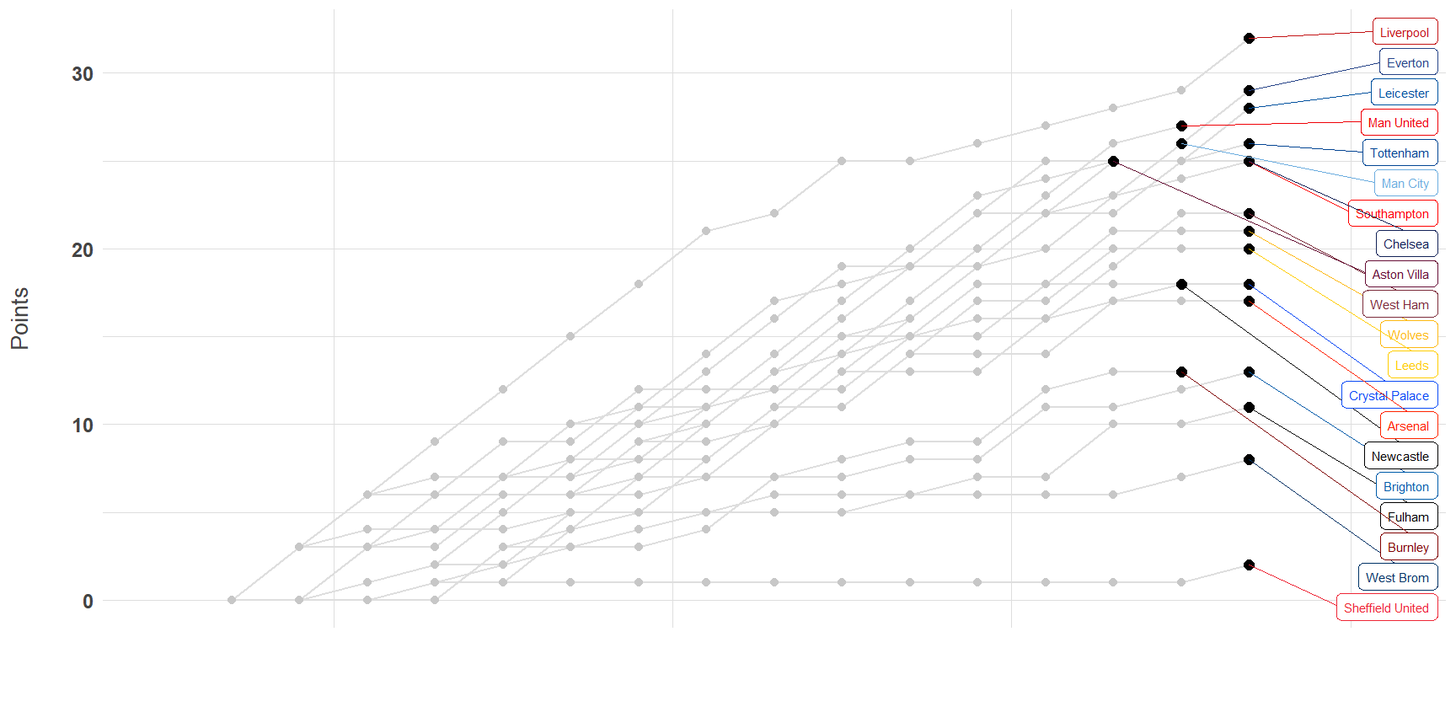
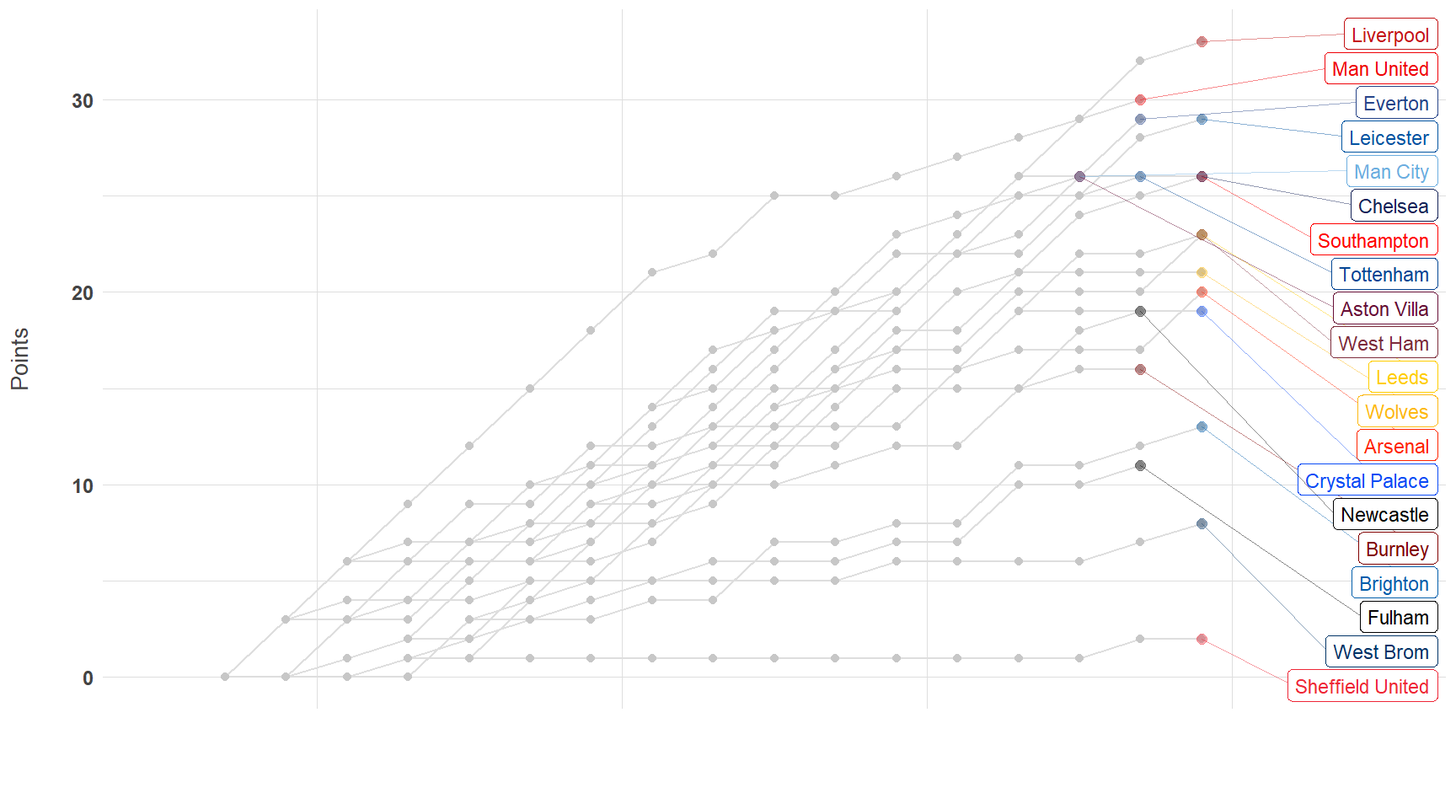
week updates

diff --git a/content/EPL.html b/content/EPL.html
@@ -7,8 +7,6 @@ categories: ['R',', ','soccer',', ','EPL']
 imgtype: "png"
 ---
 
-<link href="/rmarkdown-libs/anchor-sections/anchor-sections.css" rel="stylesheet" />
-<script src="/rmarkdown-libs/anchor-sections/anchor-sections.js"></script>
 <script src="/rmarkdown-libs/htmlwidgets/htmlwidgets.js"></script>
 <script src="/rmarkdown-libs/echarts4r/echarts-en.min.js"></script>
 <script src="/rmarkdown-libs/echarts4r/ecStat.min.js"></script>
@@ -88,17 +86,17 @@ Liverpool
 </td>
 <td style="text-align:center;">
 <div style="background-color: #2a2a2a; color: white; font-weight: bold; border-radius: 5px">
-32
+33
 </div>
 </td>
 <td style="text-align:center;">
-<span style="font-weight: 200; color: #6a6a6a; padding: 3px 8px 3px 8px">15</span>
+<span style="font-weight: 200; color: #6a6a6a; padding: 3px 8px 3px 8px">16</span>
 </td>
 <td style="text-align:center;">
 <span style="font-weight: 200; color: #6a6a6a; padding: 3px 8px 3px 8px">9</span>
 </td>
 <td style="text-align:center;">
-<span style="font-weight: 200; color: #6a6a6a; padding: 3px 8px 3px 8px">5</span>
+<span style="font-weight: 200; color: #6a6a6a; padding: 3px 8px 3px 8px">6</span>
 </td>
 <td style="text-align:center;">
 <span style="font-weight: 200; color: #6a6a6a; padding: 3px 8px 3px 8px">1</span>
@@ -113,9 +111,6 @@ Liverpool
 <span style="font-weight: 700; color: #2c7e55">17</span>
 </td>
 <td style="text-align:left;">
-<span style="display: float; color: white; font-weight: light; font-size: 10px; font-family: IBM Plex Mono; padding: 7px 10px 7px 10px; background-color: #2c7e55">W</span>
-</td>
-<td style="text-align:center;">
 <span style="display: float; color: white; font-weight: light; font-size: 10px; font-family: IBM Plex Mono; padding: 7px 10px 7px 10px; background-color: #ffc966">D</span>
 </td>
 <td style="text-align:center;">
@@ -123,6 +118,9 @@ Liverpool
 </td>
 <td style="text-align:center;">
 <span style="display: float; color: white; font-weight: light; font-size: 10px; font-family: IBM Plex Mono; padding: 7px 10px 7px 10px; background-color: #2c7e55">W</span>
+</td>
+<td style="text-align:center;">
+<span style="display: float; color: white; font-weight: light; font-size: 10px; font-family: IBM Plex Mono; padding: 7px 10px 7px 10px; background-color: #ffc966">D</span>
 </td>
 <td style="text-align:center;">
 <span style="display: float; color: white; font-weight: light; font-size: 10px; font-family: IBM Plex Mono; padding: 7px 10px 7px 10px; background-color: #ffc966">D</span>
@@ -742,6 +740,57 @@ Arsenal
 </tr>
 <tr>
 <td style="text-align:center;">
+<img src="https://github.com/awhstin/Dataset-List/raw/master/img/new.png" height="30" width="30" style="display: inline; padding: 2px"/>
+</td>
+<td style="text-align:left;">
+<div style="font-family: IBM Plex Mono; font-size: 16px; font-weight: 700">
+Newcastle United
+</div>
+</td>
+<td style="text-align:center;">
+<div style="background-color: dark gray; color: black; font-weight: bold; border-radius: 5px">
+19
+</div>
+</td>
+<td style="text-align:center;">
+<span style="font-weight: 200; color: #6a6a6a; padding: 3px 8px 3px 8px">15</span>
+</td>
+<td style="text-align:center;">
+<span style="font-weight: 200; color: #6a6a6a; padding: 3px 8px 3px 8px">5</span>
+</td>
+<td style="text-align:center;">
+<span style="font-weight: 200; color: #6a6a6a; padding: 3px 8px 3px 8px">4</span>
+</td>
+<td style="text-align:center;">
+<span style="font-weight: 200; color: #6a6a6a; padding: 3px 8px 3px 8px">6</span>
+</td>
+<td style="text-align:center;">
+<span style="font-weight: 200; color: #6a6a6a; padding: 3px 8px 3px 8px">17</span>
+</td>
+<td style="text-align:center;">
+<span style="font-weight: 200; color: #6a6a6a; padding: 3px 8px 3px 8px">24</span>
+</td>
+<td style="text-align:center;">
+<span style="font-weight: 700; color: #7d5948">-7</span>
+</td>
+<td style="text-align:left;">
+<span style="display: float; color: white; font-weight: light; font-size: 10px; font-family: IBM Plex Mono; padding: 7px 10px 7px 10px; background-color: #2c7e55">W</span>
+</td>
+<td style="text-align:center;">
+<span style="display: float; color: white; font-weight: light; font-size: 10px; font-family: IBM Plex Mono; padding: 7px 10px 7px 10px; background-color: #B74040">L</span>
+</td>
+<td style="text-align:center;">
+<span style="display: float; color: white; font-weight: light; font-size: 10px; font-family: IBM Plex Mono; padding: 7px 10px 7px 10px; background-color: #ffc966">D</span>
+</td>
+<td style="text-align:center;">
+<span style="display: float; color: white; font-weight: light; font-size: 10px; font-family: IBM Plex Mono; padding: 7px 10px 7px 10px; background-color: #B74040">L</span>
+</td>
+<td style="text-align:center;">
+<span style="display: float; color: white; font-weight: light; font-size: 10px; font-family: IBM Plex Mono; padding: 7px 10px 7px 10px; background-color: #ffc966">D</span>
+</td>
+</tr>
+<tr>
+<td style="text-align:center;">
 <img src="https://github.com/awhstin/Dataset-List/raw/master/img/cry.png" height="30" width="30" style="display: inline; padding: 2px"/>
 </td>
 <td style="text-align:left;">
@@ -789,57 +838,6 @@ Crystal Palace
 </td>
 <td style="text-align:center;">
 <span style="display: float; color: white; font-weight: light; font-size: 10px; font-family: IBM Plex Mono; padding: 7px 10px 7px 10px; background-color: #ffc966">D</span>
-</td>
-</tr>
-<tr>
-<td style="text-align:center;">
-<img src="https://github.com/awhstin/Dataset-List/raw/master/img/new.png" height="30" width="30" style="display: inline; padding: 2px"/>
-</td>
-<td style="text-align:left;">
-<div style="font-family: IBM Plex Mono; font-size: 16px; font-weight: 700">
-Newcastle United
-</div>
-</td>
-<td style="text-align:center;">
-<div style="background-color: dark gray; color: black; font-weight: bold; border-radius: 5px">
-18
-</div>
-</td>
-<td style="text-align:center;">
-<span style="font-weight: 200; color: #6a6a6a; padding: 3px 8px 3px 8px">14</span>
-</td>
-<td style="text-align:center;">
-<span style="font-weight: 200; color: #6a6a6a; padding: 3px 8px 3px 8px">5</span>
-</td>
-<td style="text-align:center;">
-<span style="font-weight: 200; color: #6a6a6a; padding: 3px 8px 3px 8px">3</span>
-</td>
-<td style="text-align:center;">
-<span style="font-weight: 200; color: #6a6a6a; padding: 3px 8px 3px 8px">6</span>
-</td>
-<td style="text-align:center;">
-<span style="font-weight: 200; color: #6a6a6a; padding: 3px 8px 3px 8px">17</span>
-</td>
-<td style="text-align:center;">
-<span style="font-weight: 200; color: #6a6a6a; padding: 3px 8px 3px 8px">24</span>
-</td>
-<td style="text-align:center;">
-<span style="font-weight: 700; color: #7d5948">-7</span>
-</td>
-<td style="text-align:left;">
-<span style="display: float; color: white; font-weight: light; font-size: 10px; font-family: IBM Plex Mono; padding: 7px 10px 7px 10px; background-color: #2c7e55">W</span>
-</td>
-<td style="text-align:center;">
-<span style="display: float; color: white; font-weight: light; font-size: 10px; font-family: IBM Plex Mono; padding: 7px 10px 7px 10px; background-color: #2c7e55">W</span>
-</td>
-<td style="text-align:center;">
-<span style="display: float; color: white; font-weight: light; font-size: 10px; font-family: IBM Plex Mono; padding: 7px 10px 7px 10px; background-color: #B74040">L</span>
-</td>
-<td style="text-align:center;">
-<span style="display: float; color: white; font-weight: light; font-size: 10px; font-family: IBM Plex Mono; padding: 7px 10px 7px 10px; background-color: #ffc966">D</span>
-</td>
-<td style="text-align:center;">
-<span style="display: float; color: white; font-weight: light; font-size: 10px; font-family: IBM Plex Mono; padding: 7px 10px 7px 10px; background-color: #B74040">L</span>
 </td>
 </tr>
 <tr>
@@ -1124,7 +1122,7 @@ This section is reserved for other charts and tables investigating the Premier L
 </div>
 <p><br></p>
 <div id="htmlwidget-1" style="width:100%;height:500px;" class="echarts4r html-widget"></div>
-<script type="application/json" data-for="htmlwidget-1">{"x":{"theme":"custom","tl":false,"draw":true,"renderer":"canvas","events":[{"data":{"type":"highlight","seriesName":["2020"]}},{"data":{"type":"dataZoom","dataZoomIndex":0,"start":0,"end":50}}],"buttons":[],"opts":{"yAxis":[{"show":true}],"xAxis":[{"type":"value"}],"legend":{"data":["2015","2016","2017","2018","2019","2020"],"show":true,"type":"plain","right":0},"series":[{"data":[{"value":[1,22]},{"value":[2,56]},{"value":[3,84]},{"value":[4,114]},{"value":[5,133]},{"value":[6,155]},{"value":[7,189]},{"value":[8,236]},{"value":[9,263]},{"value":[10,274]},{"value":[11,297]},{"value":[12,326]},{"value":[13,356]},{"value":[14,396]},{"value":[15,421]},{"value":[16,452]},{"value":[17,497]},{"value":[18,532]},{"value":[19,562]},{"value":[20,586]},{"value":[21,609]},{"value":[22,631]},{"value":[23,655]},{"value":[24,678]},{"value":[25,719]},{"value":[26,751]},{"value":[27,783]},{"value":[28,807]},{"value":[29,838]},{"value":[30,854]},{"value":[31,884]},{"value":[32,914]},{"value":[33,934]},{"value":[34,956]},{"value":[35,984]},{"value":[36,1026]}],"yAxisIndex":0,"xAxisIndex":0,"name":"2015","type":"line","coordinateSystem":"cartesian2d","smooth":true},{"data":[{"value":[1,36]},{"value":[2,59]},{"value":[3,87]},{"value":[4,95]},{"value":[5,142]},{"value":[6,163]},{"value":[7,169]},{"value":[8,183]},{"value":[9,217]},{"value":[10,238]},{"value":[11,260]},{"value":[12,269]},{"value":[13,284]},{"value":[14,336]},{"value":[15,372]},{"value":[16,386]},{"value":[17,404]},{"value":[18,436]},{"value":[19,461]},{"value":[20,492]},{"value":[21,529]},{"value":[22,557]},{"value":[23,579]},{"value":[24,601]},{"value":[25,635]},{"value":[26,671]},{"value":[27,705]},{"value":[28,725]},{"value":[29,752]},{"value":[30,771]},{"value":[31,799]},{"value":[32,835]},{"value":[33,859]},{"value":[34,890]},{"value":[35,927]},{"value":[36,984]},{"value":[37,1007]},{"value":[38,1038]},{"value":[39,1064]}],"yAxisIndex":0,"xAxisIndex":0,"name":"2016","type":"line","coordinateSystem":"cartesian2d","smooth":true},{"data":[{"value":[1,31]},{"value":[2,59]},{"value":[3,86]},{"value":[4,87]},{"value":[5,141]},{"value":[6,170]},{"value":[7,173]},{"value":[8,199]},{"value":[9,221]},{"value":[10,253]},{"value":[11,268]},{"value":[12,297]},{"value":[13,326]},{"value":[14,353]},{"value":[15,378]},{"value":[16,399]},{"value":[17,420]},{"value":[18,463]},{"value":[19,488]},{"value":[20,510]},{"value":[21,526]},{"value":[22,536]},{"value":[23,560]},{"value":[24,581]},{"value":[25,611]},{"value":[26,631]},{"value":[27,636]},{"value":[28,656]},{"value":[29,687]},{"value":[30,717]},{"value":[31,735]},{"value":[32,746]},{"value":[33,772]},{"value":[34,791]},{"value":[35,854]},{"value":[36,879]},{"value":[37,925]},{"value":[38,967]},{"value":[39,1016]},{"value":[40,1018]}],"yAxisIndex":0,"xAxisIndex":0,"name":"2017","type":"line","coordinateSystem":"cartesian2d","smooth":true},{"data":[{"value":[1,29]},{"value":[2,49]},{"value":[3,82]},{"value":[4,136]},{"value":[5,169]},{"value":[6,193]},{"value":[7,245]},{"value":[8,278]},{"value":[9,297]},{"value":[10,319]},{"value":[11,351]},{"value":[12,379]},{"value":[13,409]},{"value":[14,442]},{"value":[15,467]},{"value":[16,503]},{"value":[17,528]},{"value":[18,561]},{"value":[19,589]},{"value":[20,619]},{"value":[21,648]},{"value":[22,677]},{"value":[23,699]},{"value":[24,728]},{"value":[25,750]},{"value":[26,779]},{"value":[27,813]},{"value":[28,833]},{"value":[29,857]},{"value":[30,890]},{"value":[31,947]},{"value":[32,979]},{"value":[33,1013]},{"value":[34,1072]}],"yAxisIndex":0,"xAxisIndex":0,"name":"2018","type":"line","coordinateSystem":"cartesian2d","smooth":true},{"data":[{"value":[1,25]},{"value":[2,52]},{"value":[3,92]},{"value":[4,105]},{"value":[5,132]},{"value":[6,141]},{"value":[7,156]},{"value":[8,186]},{"value":[9,206]},{"value":[10,225]},{"value":[11,255]},{"value":[12,281]},{"value":[13,342]},{"value":[14,393]},{"value":[15,432]},{"value":[16,475]},{"value":[17,502]},{"value":[18,527]},{"value":[19,557]},{"value":[20,588]},{"value":[21,620]},{"value":[22,651]},{"value":[23,680]},{"value":[24,705]},{"value":[25,723]},{"value":[26,761]},{"value":[27,787]},{"value":[28,815]},{"value":[29,848]},{"value":[30,879]},{"value":[31,944]},{"value":[32,963]},{"value":[33,981]},{"value":[34,1034]}],"yAxisIndex":0,"xAxisIndex":0,"name":"2019","type":"line","coordinateSystem":"cartesian2d","smooth":true},{"data":[{"value":[1,23]},{"value":[2,67]},{"value":[3,103]},{"value":[4,144]},{"value":[5,172]},{"value":[6,191]},{"value":[7,221]},{"value":[8,245]},{"value":[9,265]},{"value":[10,290]},{"value":[11,320]},{"value":[12,344]},{"value":[13,399]},{"value":[14,422]}],"yAxisIndex":0,"xAxisIndex":0,"name":"2020","type":"line","coordinateSystem":"cartesian2d","smooth":true,"markPoint":{"data":[{"name":"Max","type":"max"}]}}],"title":[{"text":"Goals by Week of the Premier League"}],"tooltip":{"trigger":"axis"},"dataZoom":[[]],"toolbox":{"feature":{"dataZoom":[]}},"textStyle":{"fontFamily":"IBM Plex Mono"}},"dispose":true,"theme2":true,"customTheme":"{\"color\":[\"#f7dc05\",\n            \"#3d98d3\",\n            \"#ec0b88\",\n            \"#5e35b1\",\n            \"#f9791e\",\n            \"#3dd378\",\n            \"#787464\",\n            \"#c6c6c6\",\n            \"#baa9d0\",\n            \"#009688\"]}","theme_name":"custom"},"evals":[],"jsHooks":[]}</script>
+<script type="application/json" data-for="htmlwidget-1">{"x":{"theme":"custom","tl":false,"draw":true,"renderer":"canvas","events":[{"data":{"type":"highlight","seriesName":["2020"]}},{"data":{"type":"dataZoom","dataZoomIndex":0,"start":0,"end":50}}],"buttons":[],"opts":{"yAxis":[{"show":true}],"xAxis":[{"type":"value"}],"legend":{"data":["2015","2016","2017","2018","2019","2020"],"show":true,"type":"plain","right":0},"series":[{"data":[{"value":[1,22]},{"value":[2,56]},{"value":[3,84]},{"value":[4,114]},{"value":[5,133]},{"value":[6,155]},{"value":[7,189]},{"value":[8,236]},{"value":[9,263]},{"value":[10,274]},{"value":[11,297]},{"value":[12,326]},{"value":[13,356]},{"value":[14,396]},{"value":[15,421]},{"value":[16,452]},{"value":[17,497]},{"value":[18,532]},{"value":[19,562]},{"value":[20,586]},{"value":[21,609]},{"value":[22,631]},{"value":[23,655]},{"value":[24,678]},{"value":[25,719]},{"value":[26,751]},{"value":[27,783]},{"value":[28,807]},{"value":[29,838]},{"value":[30,854]},{"value":[31,884]},{"value":[32,914]},{"value":[33,934]},{"value":[34,956]},{"value":[35,984]},{"value":[36,1026]}],"yAxisIndex":0,"xAxisIndex":0,"name":"2015","type":"line","coordinateSystem":"cartesian2d","smooth":true},{"data":[{"value":[1,36]},{"value":[2,59]},{"value":[3,87]},{"value":[4,95]},{"value":[5,142]},{"value":[6,163]},{"value":[7,169]},{"value":[8,183]},{"value":[9,217]},{"value":[10,238]},{"value":[11,260]},{"value":[12,269]},{"value":[13,284]},{"value":[14,336]},{"value":[15,372]},{"value":[16,386]},{"value":[17,404]},{"value":[18,436]},{"value":[19,461]},{"value":[20,492]},{"value":[21,529]},{"value":[22,557]},{"value":[23,579]},{"value":[24,601]},{"value":[25,635]},{"value":[26,671]},{"value":[27,705]},{"value":[28,725]},{"value":[29,752]},{"value":[30,771]},{"value":[31,799]},{"value":[32,835]},{"value":[33,859]},{"value":[34,890]},{"value":[35,927]},{"value":[36,984]},{"value":[37,1007]},{"value":[38,1038]},{"value":[39,1064]}],"yAxisIndex":0,"xAxisIndex":0,"name":"2016","type":"line","coordinateSystem":"cartesian2d","smooth":true},{"data":[{"value":[1,31]},{"value":[2,59]},{"value":[3,86]},{"value":[4,87]},{"value":[5,141]},{"value":[6,170]},{"value":[7,173]},{"value":[8,199]},{"value":[9,221]},{"value":[10,253]},{"value":[11,268]},{"value":[12,297]},{"value":[13,326]},{"value":[14,353]},{"value":[15,378]},{"value":[16,399]},{"value":[17,420]},{"value":[18,463]},{"value":[19,488]},{"value":[20,510]},{"value":[21,526]},{"value":[22,536]},{"value":[23,560]},{"value":[24,581]},{"value":[25,611]},{"value":[26,631]},{"value":[27,636]},{"value":[28,656]},{"value":[29,687]},{"value":[30,717]},{"value":[31,735]},{"value":[32,746]},{"value":[33,772]},{"value":[34,791]},{"value":[35,854]},{"value":[36,879]},{"value":[37,925]},{"value":[38,967]},{"value":[39,1016]},{"value":[40,1018]}],"yAxisIndex":0,"xAxisIndex":0,"name":"2017","type":"line","coordinateSystem":"cartesian2d","smooth":true},{"data":[{"value":[1,29]},{"value":[2,49]},{"value":[3,82]},{"value":[4,136]},{"value":[5,169]},{"value":[6,193]},{"value":[7,245]},{"value":[8,278]},{"value":[9,297]},{"value":[10,319]},{"value":[11,351]},{"value":[12,379]},{"value":[13,409]},{"value":[14,442]},{"value":[15,467]},{"value":[16,503]},{"value":[17,528]},{"value":[18,561]},{"value":[19,589]},{"value":[20,619]},{"value":[21,648]},{"value":[22,677]},{"value":[23,699]},{"value":[24,728]},{"value":[25,750]},{"value":[26,779]},{"value":[27,813]},{"value":[28,833]},{"value":[29,857]},{"value":[30,890]},{"value":[31,947]},{"value":[32,979]},{"value":[33,1013]},{"value":[34,1072]}],"yAxisIndex":0,"xAxisIndex":0,"name":"2018","type":"line","coordinateSystem":"cartesian2d","smooth":true},{"data":[{"value":[1,25]},{"value":[2,52]},{"value":[3,92]},{"value":[4,105]},{"value":[5,132]},{"value":[6,141]},{"value":[7,156]},{"value":[8,186]},{"value":[9,206]},{"value":[10,225]},{"value":[11,255]},{"value":[12,281]},{"value":[13,342]},{"value":[14,393]},{"value":[15,432]},{"value":[16,475]},{"value":[17,502]},{"value":[18,527]},{"value":[19,557]},{"value":[20,588]},{"value":[21,620]},{"value":[22,651]},{"value":[23,680]},{"value":[24,705]},{"value":[25,723]},{"value":[26,761]},{"value":[27,787]},{"value":[28,815]},{"value":[29,848]},{"value":[30,879]},{"value":[31,944]},{"value":[32,963]},{"value":[33,981]},{"value":[34,1034]}],"yAxisIndex":0,"xAxisIndex":0,"name":"2019","type":"line","coordinateSystem":"cartesian2d","smooth":true},{"data":[{"value":[1,23]},{"value":[2,67]},{"value":[3,103]},{"value":[4,144]},{"value":[5,172]},{"value":[6,191]},{"value":[7,221]},{"value":[8,245]},{"value":[9,265]},{"value":[10,290]},{"value":[11,320]},{"value":[12,344]},{"value":[13,399]},{"value":[14,434]},{"value":[15,434]}],"yAxisIndex":0,"xAxisIndex":0,"name":"2020","type":"line","coordinateSystem":"cartesian2d","smooth":true,"markPoint":{"data":[{"name":"Max","type":"max"}]}}],"title":[{"text":"Goals by Week of the Premier League"}],"tooltip":{"trigger":"axis"},"dataZoom":[[]],"toolbox":{"feature":{"dataZoom":[]}},"textStyle":{"fontFamily":"IBM Plex Mono"}},"dispose":true,"theme2":true,"customTheme":"{\"color\":[\"#f7dc05\",\n            \"#3d98d3\",\n            \"#ec0b88\",\n            \"#5e35b1\",\n            \"#f9791e\",\n            \"#3dd378\",\n            \"#787464\",\n            \"#c6c6c6\",\n            \"#baa9d0\",\n            \"#009688\"]}","theme_name":"custom"},"evals":[],"jsHooks":[]}</script>
 <hr>
 <h4>
 Fantasy Corner
@@ -1157,6 +1155,25 @@ Pts
 <tbody>
 <tr>
 <td style="text-align:left;">
+LIV
+</td>
+<td style="text-align:left;">
+<div style="font-family: IBM Plex Mono; font-size: 16px; font-weight: 700">
+Andrew Robertson
+</div>
+</td>
+<td style="text-align:center;">
+<span style="font-weight: 200; color: #6a6a6a; padding: 3px 8px 3px 8px">DEF</span>
+</td>
+<td style="text-align:center;">
+<span style="font-weight: 700; color: #6c614b">5.7</span>
+</td>
+<td style="text-align:center;">
+<span style="display: block; padding: 0 4px; border-radius: 2px; color: white; background-color: #28734d">79</span>
+</td>
+</tr>
+<tr>
+<td style="text-align:left;">
 CHE
 </td>
 <td style="text-align:left;">
@@ -1168,10 +1185,10 @@ Kurt Zouma
 <span style="font-weight: 200; color: #6a6a6a; padding: 3px 8px 3px 8px">DEF</span>
 </td>
 <td style="text-align:center;">
-<span style="font-weight: 700; color: #ae4341">3.0</span>
+<span style="font-weight: 700; color: #af4341">3.0</span>
 </td>
 <td style="text-align:center;">
-<span style="display: block; padding: 0 4px; border-radius: 2px; color: white; background-color: #28754e">77</span>
+<span style="display: block; padding: 0 4px; border-radius: 2px; color: white; background-color: #29754f">77</span>
 </td>
 </tr>
 <tr>
@@ -1206,7 +1223,7 @@ Jan Bednarek
 <span style="font-weight: 200; color: #6a6a6a; padding: 3px 8px 3px 8px">DEF</span>
 </td>
 <td style="text-align:center;">
-<span style="font-weight: 700; color: #6a624b">5.5</span>
+<span style="font-weight: 700; color: #715f4a">5.5</span>
 </td>
 <td style="text-align:center;">
 <span style="display: block; padding: 0 4px; border-radius: 2px; color: white; background-color: #2b7b53">72</span>
@@ -1225,26 +1242,7 @@ Stuart Dallas
 <span style="font-weight: 200; color: #6a6a6a; padding: 3px 8px 3px 8px">DEF</span>
 </td>
 <td style="text-align:center;">
-<span style="font-weight: 700; color: #705f4a">5.3</span>
-</td>
-<td style="text-align:center;">
-<span style="display: block; padding: 0 4px; border-radius: 2px; color: white; background-color: #2c7e55">70</span>
-</td>
-</tr>
-<tr>
-<td style="text-align:left;">
-LIV
-</td>
-<td style="text-align:left;">
-<div style="font-family: IBM Plex Mono; font-size: 16px; font-weight: 700">
-Andrew Robertson
-</div>
-</td>
-<td style="text-align:center;">
-<span style="font-weight: 200; color: #6a6a6a; padding: 3px 8px 3px 8px">DEF</span>
-</td>
-<td style="text-align:center;">
-<span style="font-weight: 700; color: #8e5246">4.2</span>
+<span style="font-weight: 700; color: #765c49">5.3</span>
 </td>
 <td style="text-align:center;">
 <span style="display: block; padding: 0 4px; border-radius: 2px; color: white; background-color: #2c7e55">70</span>
@@ -1263,10 +1261,10 @@ Harry Kane
 <span style="font-weight: 200; color: #6a6a6a; padding: 3px 8px 3px 8px">FWD</span>
 </td>
 <td style="text-align:center;">
-<span style="font-weight: 700; color: #855547">4.5</span>
+<span style="font-weight: 700; color: #735d4a">5.4</span>
 </td>
 <td style="text-align:center;">
-<span style="display: block; padding: 0 4px; border-radius: 2px; color: white; background-color: #194730">113</span>
+<span style="display: block; padding: 0 4px; border-radius: 2px; color: white; background-color: #1a4a32">113</span>
 </td>
 </tr>
 <tr>
@@ -1282,10 +1280,10 @@ Jamie Vardy
 <span style="font-weight: 200; color: #6a6a6a; padding: 3px 8px 3px 8px">FWD</span>
 </td>
 <td style="text-align:center;">
-<span style="font-weight: 700; color: #4c6f50">6.6</span>
+<span style="font-weight: 700; color: #516d4f">6.8</span>
 </td>
 <td style="text-align:center;">
-<span style="display: block; padding: 0 4px; border-radius: 2px; color: white; background-color: #1b4f35">107</span>
+<span style="display: block; padding: 0 4px; border-radius: 2px; color: white; background-color: #1c5236">107</span>
 </td>
 </tr>
 <tr>
@@ -1301,10 +1299,10 @@ Patrick Bamford
 <span style="font-weight: 200; color: #6a6a6a; padding: 3px 8px 3px 8px">FWD</span>
 </td>
 <td style="text-align:center;">
-<span style="font-weight: 700; color: #576a4e">6.2</span>
+<span style="font-weight: 700; color: #60664d">6.2</span>
 </td>
 <td style="text-align:center;">
-<span style="display: block; padding: 0 4px; border-radius: 2px; color: white; background-color: #1f593c">99</span>
+<span style="display: block; padding: 0 4px; border-radius: 2px; color: white; background-color: #1f5b3d">99</span>
 </td>
 </tr>
 <tr>
@@ -1320,10 +1318,10 @@ Emiliano Martínez
 <span style="font-weight: 200; color: #6a6a6a; padding: 3px 8px 3px 8px">GKP</span>
 </td>
 <td style="text-align:center;">
-<span style="font-weight: 700; color: #4f6e4f">6.5</span>
+<span style="font-weight: 700; color: #3d7652">7.6</span>
 </td>
 <td style="text-align:center;">
-<span style="display: block; padding: 0 4px; border-radius: 2px; color: white; background-color: #27714c">80</span>
+<span style="display: block; padding: 0 4px; border-radius: 2px; color: white; background-color: #27724c">80</span>
 </td>
 </tr>
 <tr>
@@ -1339,10 +1337,10 @@ Nick Pope
 <span style="font-weight: 200; color: #6a6a6a; padding: 3px 8px 3px 8px">GKP</span>
 </td>
 <td style="text-align:center;">
-<span style="font-weight: 700; color: #5d684d">6.0</span>
+<span style="font-weight: 700; color: #65644c">6.0</span>
 </td>
 <td style="text-align:center;">
-<span style="display: block; padding: 0 4px; border-radius: 2px; color: white; background-color: #297750">75</span>
+<span style="display: block; padding: 0 4px; border-radius: 2px; color: white; background-color: #297850">75</span>
 </td>
 </tr>
 <tr>
@@ -1358,10 +1356,10 @@ Mohamed Salah
 <span style="font-weight: 200; color: #6a6a6a; padding: 3px 8px 3px 8px">MID</span>
 </td>
 <td style="text-align:center;">
-<span style="font-weight: 700; color: #2c7e55">7.8</span>
+<span style="font-weight: 700; color: #2c7e55">8.3</span>
 </td>
 <td style="text-align:center;">
-<span style="display: block; padding: 0 4px; border-radius: 2px; color: white; background-color: #163f2a">120</span>
+<span style="display: block; padding: 0 4px; border-radius: 2px; color: white; background-color: #163f2a">123</span>
 </td>
 </tr>
 <tr>
@@ -1377,10 +1375,10 @@ Bruno Miguel Fernandes
 <span style="font-weight: 200; color: #6a6a6a; padding: 3px 8px 3px 8px">MID</span>
 </td>
 <td style="text-align:center;">
-<span style="font-weight: 700; color: #2e7c54">7.7</span>
+<span style="font-weight: 700; color: #3a7752">7.7</span>
 </td>
 <td style="text-align:center;">
-<span style="display: block; padding: 0 4px; border-radius: 2px; color: white; background-color: #163f2a">120</span>
+<span style="display: block; padding: 0 4px; border-radius: 2px; color: white; background-color: #17422c">120</span>
 </td>
 </tr>
 <tr>
@@ -1396,10 +1394,10 @@ Heung-Min Son
 <span style="font-weight: 200; color: #6a6a6a; padding: 3px 8px 3px 8px">MID</span>
 </td>
 <td style="text-align:center;">
-<span style="font-weight: 700; color: #705f4a">5.3</span>
+<span style="font-weight: 700; color: #5b684d">6.4</span>
 </td>
 <td style="text-align:center;">
-<span style="display: block; padding: 0 4px; border-radius: 2px; color: white; background-color: #16402a">119</span>
+<span style="display: block; padding: 0 4px; border-radius: 2px; color: white; background-color: #17432d">119</span>
 </td>
 </tr>
 <tr>
@@ -1415,10 +1413,10 @@ Jack Grealish
 <span style="font-weight: 200; color: #6a6a6a; padding: 3px 8px 3px 8px">MID</span>
 </td>
 <td style="text-align:center;">
-<span style="font-weight: 700; color: #7d5948">4.8</span>
+<span style="font-weight: 700; color: #9b4c44">3.8</span>
 </td>
 <td style="text-align:center;">
-<span style="display: block; padding: 0 4px; border-radius: 2px; color: white; background-color: #236443">90</span>
+<span style="display: block; padding: 0 4px; border-radius: 2px; color: white; background-color: #236644">90</span>
 </td>
 </tr>
 <tr>
@@ -1434,10 +1432,10 @@ Wilfried Zaha
 <span style="font-weight: 200; color: #6a6a6a; padding: 3px 8px 3px 8px">MID</span>
 </td>
 <td style="text-align:center;">
-<span style="font-weight: 700; color: #705f4a">5.3</span>
+<span style="font-weight: 700; color: #765c49">5.3</span>
 </td>
 <td style="text-align:center;">
-<span style="display: block; padding: 0 4px; border-radius: 2px; color: white; background-color: #246947">86</span>
+<span style="display: block; padding: 0 4px; border-radius: 2px; color: white; background-color: #256a48">86</span>
 </td>
 </tr>
 </tbody>
